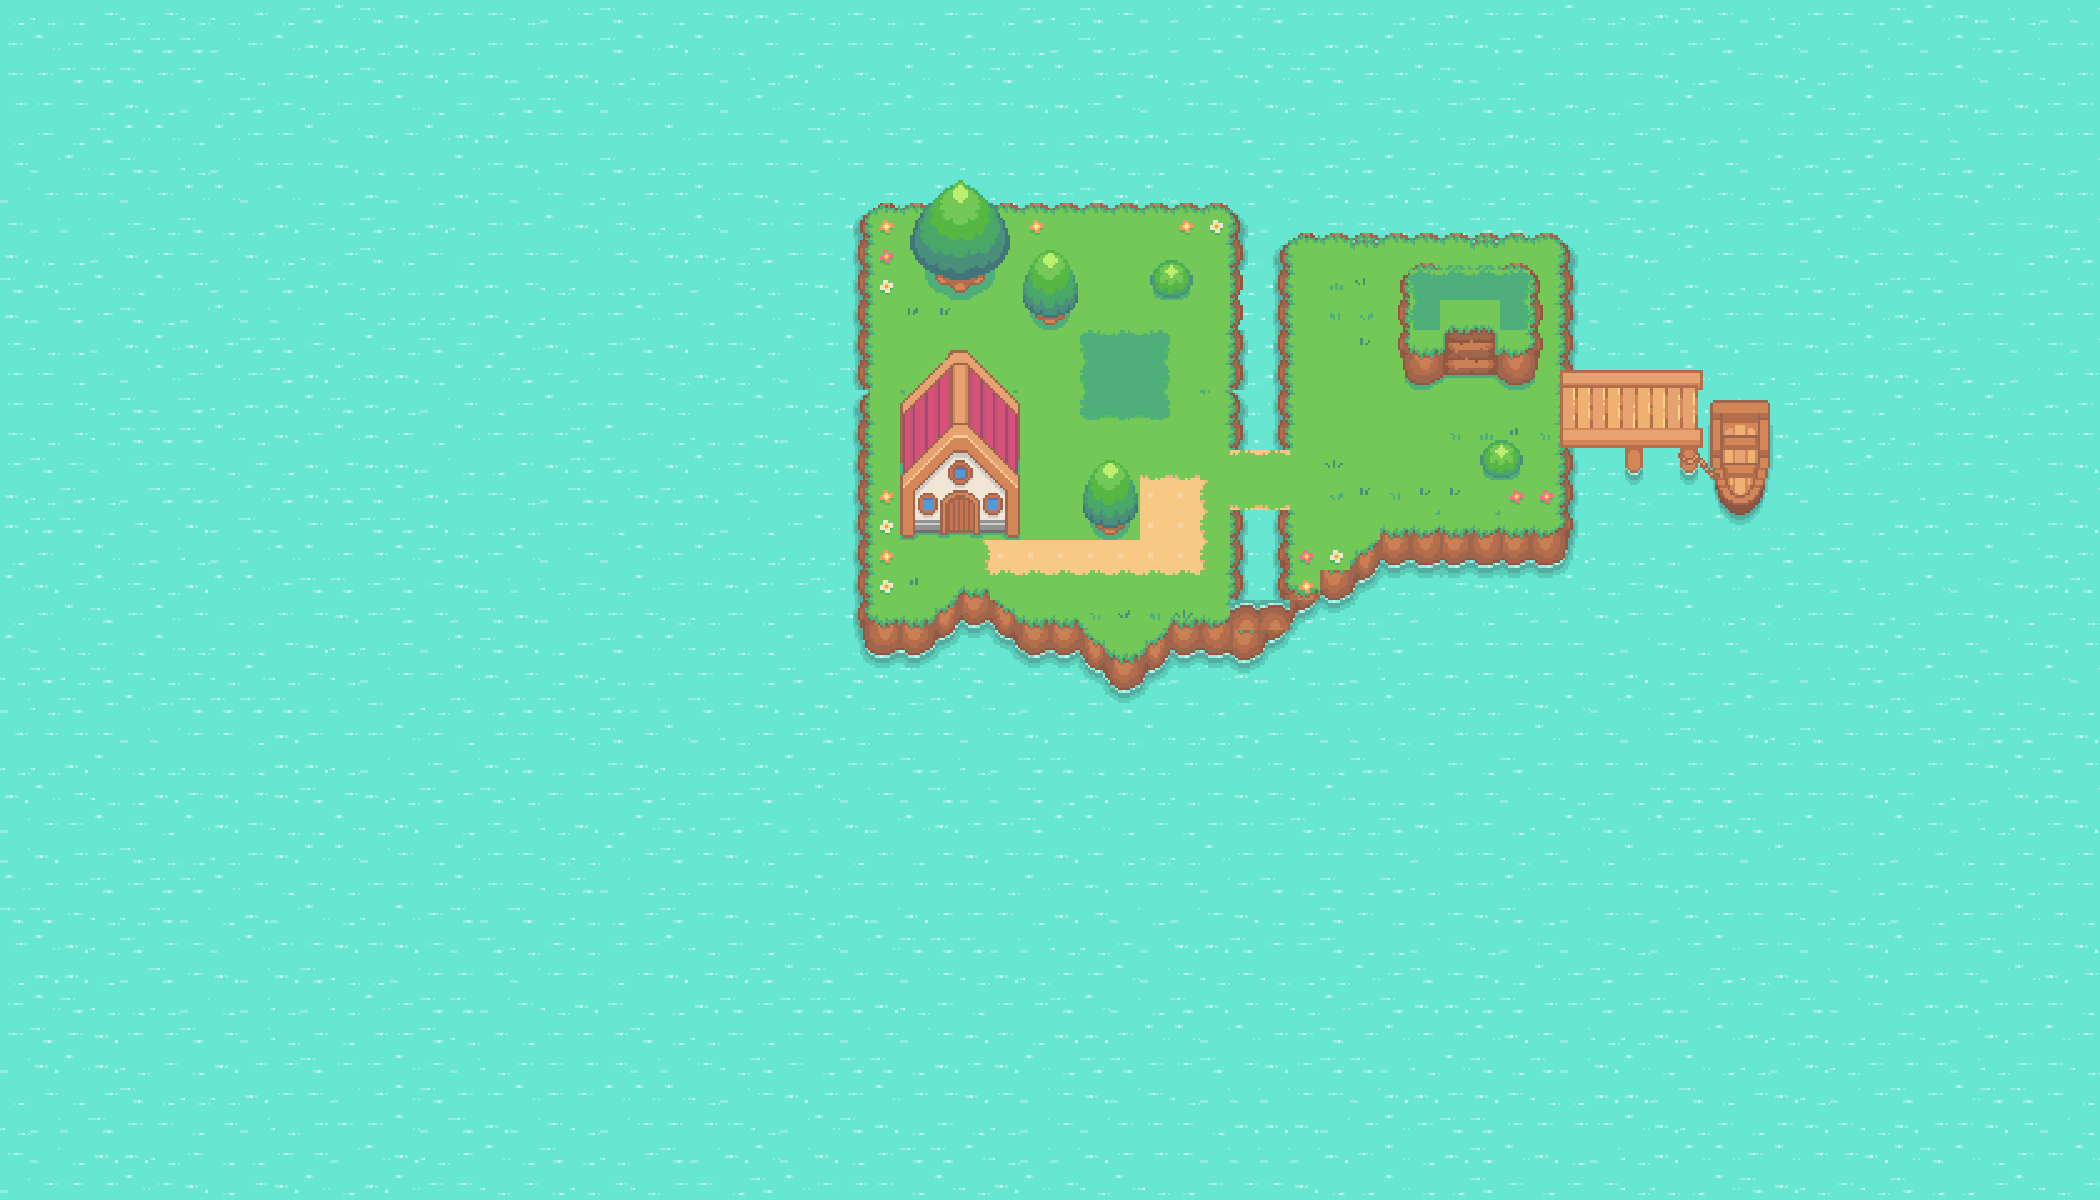
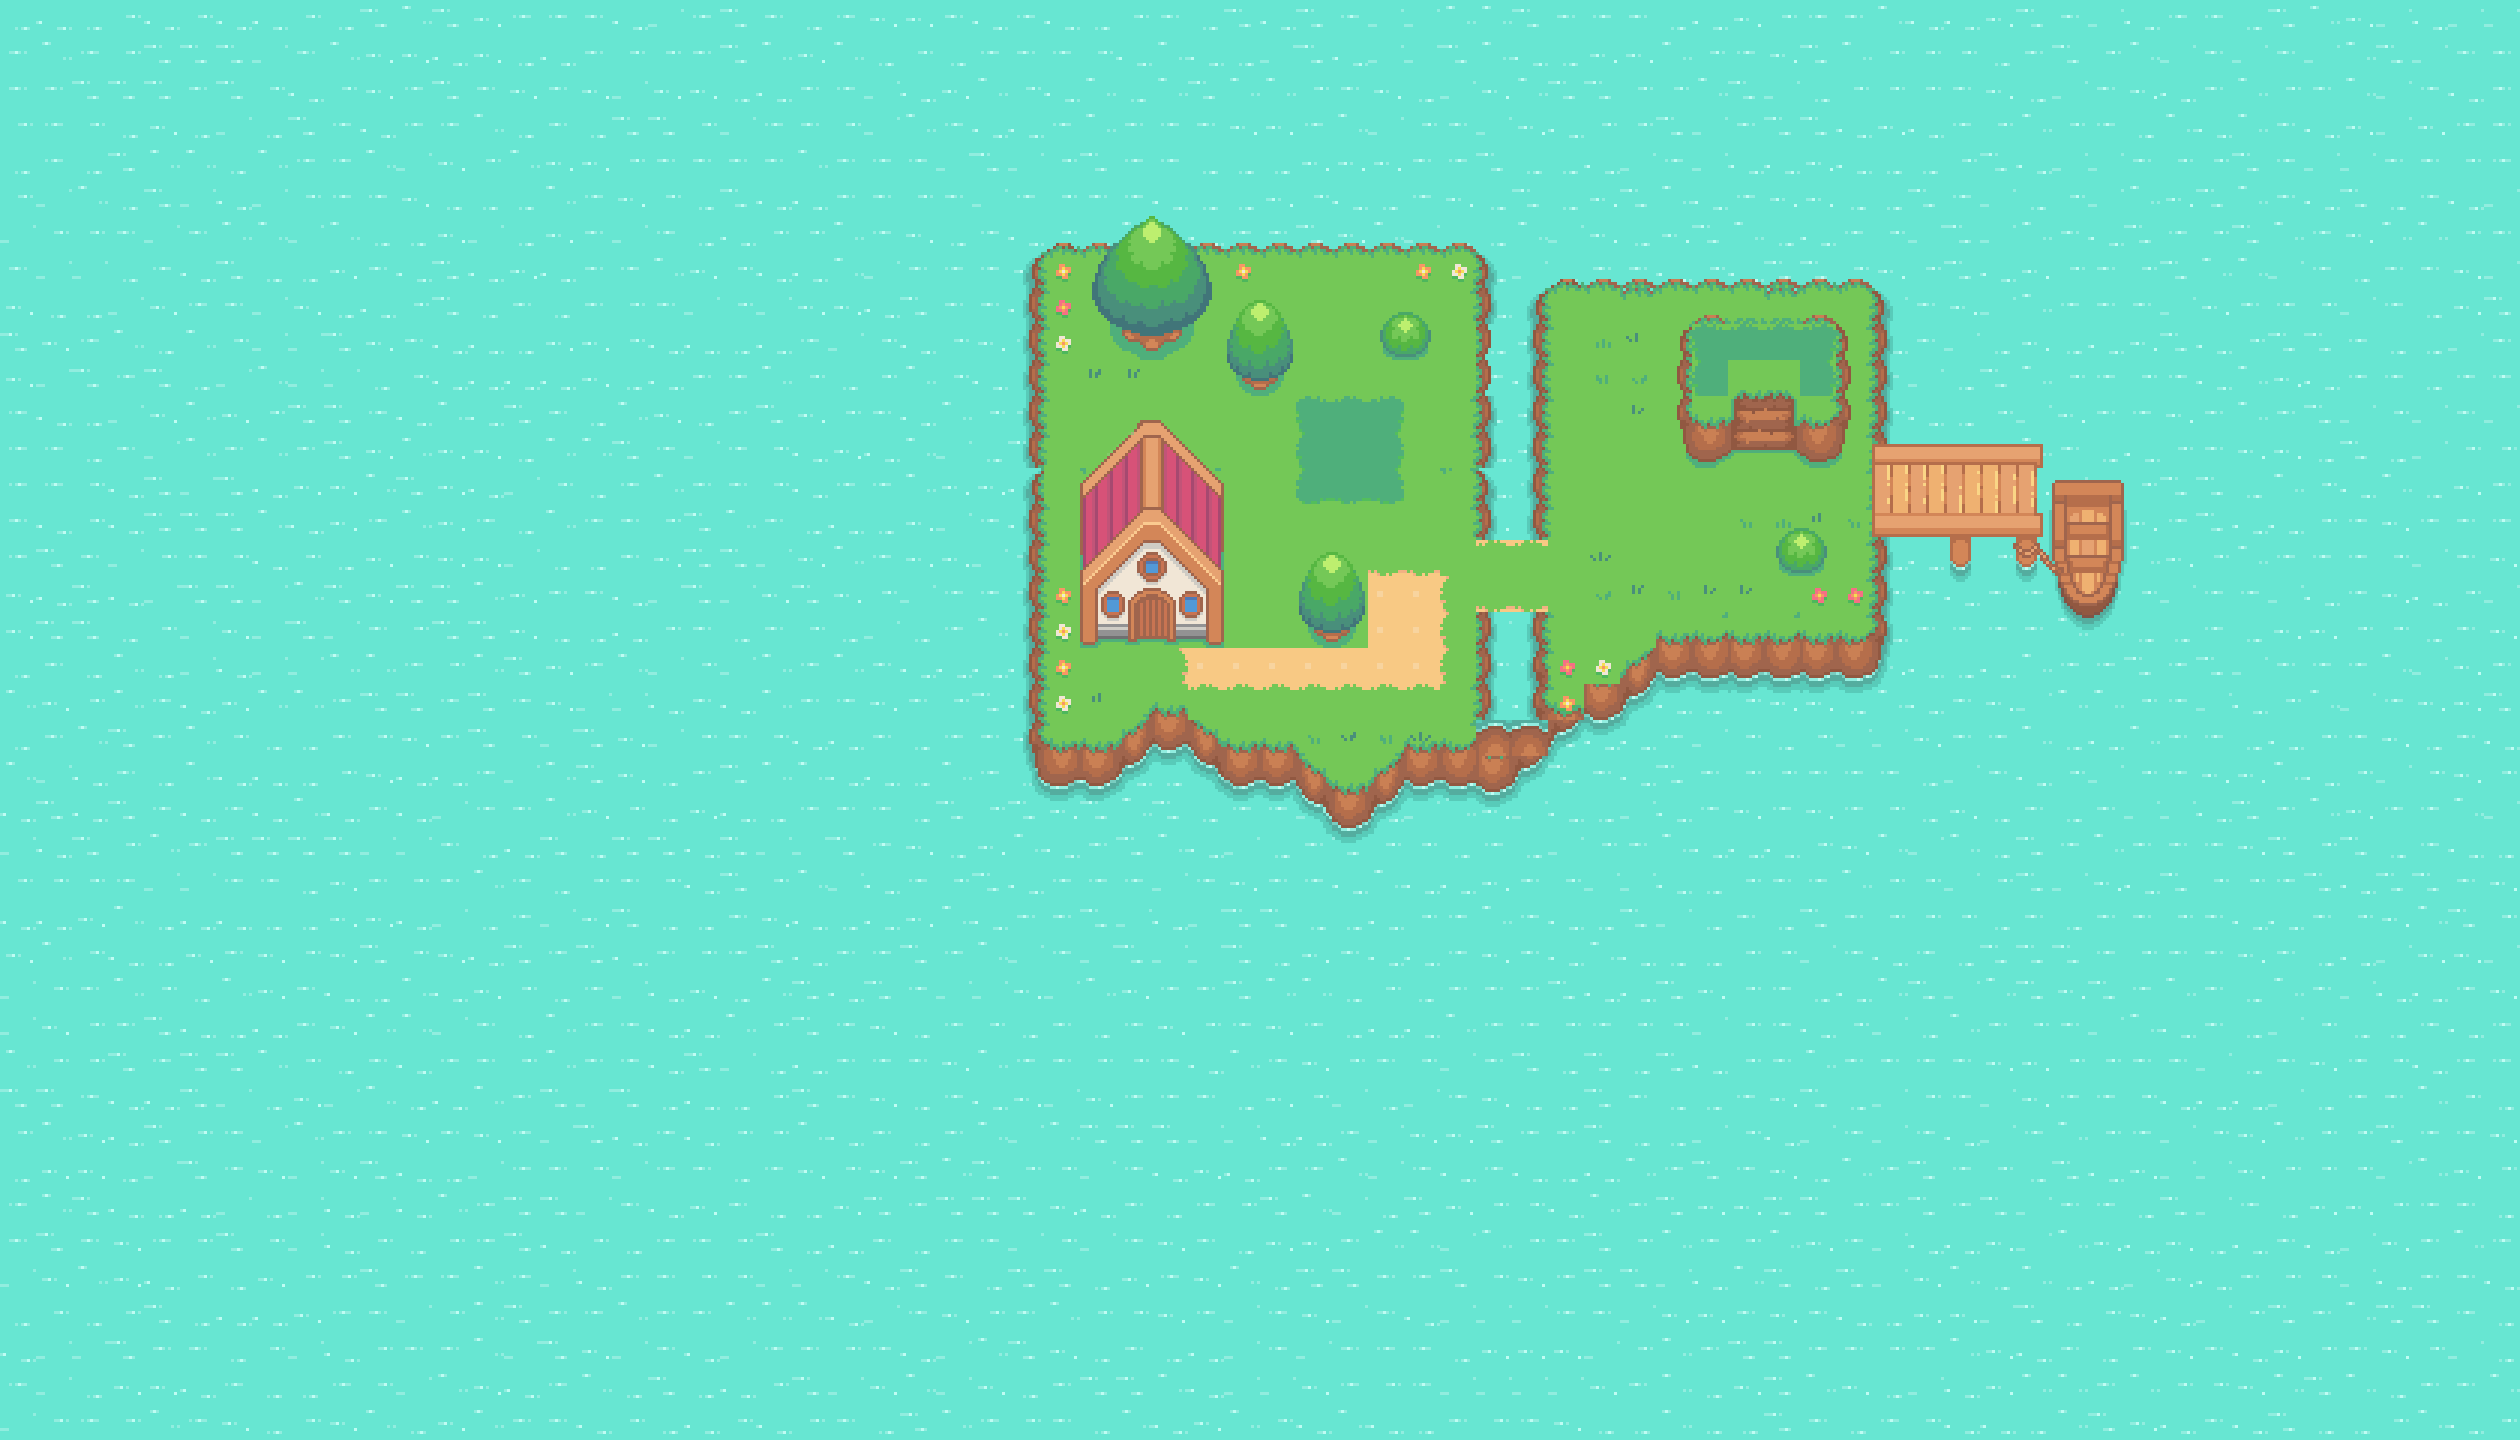
player starting position

diff --git a/index.js b/index.js
@@ -10,6 +10,21 @@ c.fillRect(0, 0, canvas.width, canvas.height)
 const image = new Image()
 image.src = './img/Pokemon Style Game Map.png'
 
+const playerImage = new Image()
+playerImage.src = './img/playerDown.png'
+
 image.onload = () => {
-    c.drawImage(image, -840, -170)
+    c.drawImage(image, -1000, -225)
+    c.drawImage(
+        playerImage,
+        0,
+        0,
+        playerImage.width / 4,
+        playerImage.height,
+        130,
+        390,
+        playerImage.width / 4,
+        playerImage.height
+        )
 }
+
